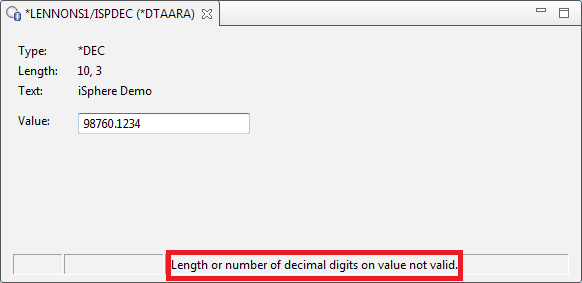
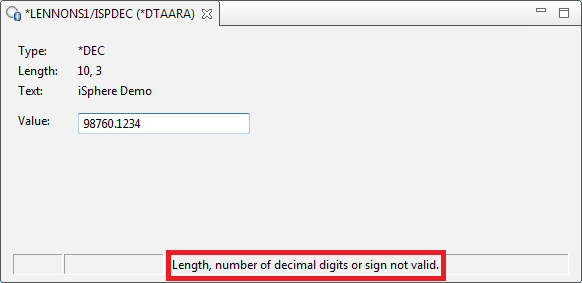
Fixed typo and updated error message in screen shot.

Changed region(s): [[0.2784, 0.8763, 0.8041, 1.0]]

diff --git a/trunk/eclipse/iSphere Help Core/html/dataareaeditor/dataareaeditor.html b/trunk/eclipse/iSphere Help Core/html/dataareaeditor/dataareaeditor.html
@@ -26,7 +26,7 @@
 		prompted to save the changes.
 	<h2>*DEC Data Areas</h2>
 	<p>Any errors are shown at the bottom of the screen and you will be
-		undable to save the changes.
+		unable to save the changes.
 	<p>
 		<img src="assets/dataareaeditor_dec.png" align="middle">
 	<p>
